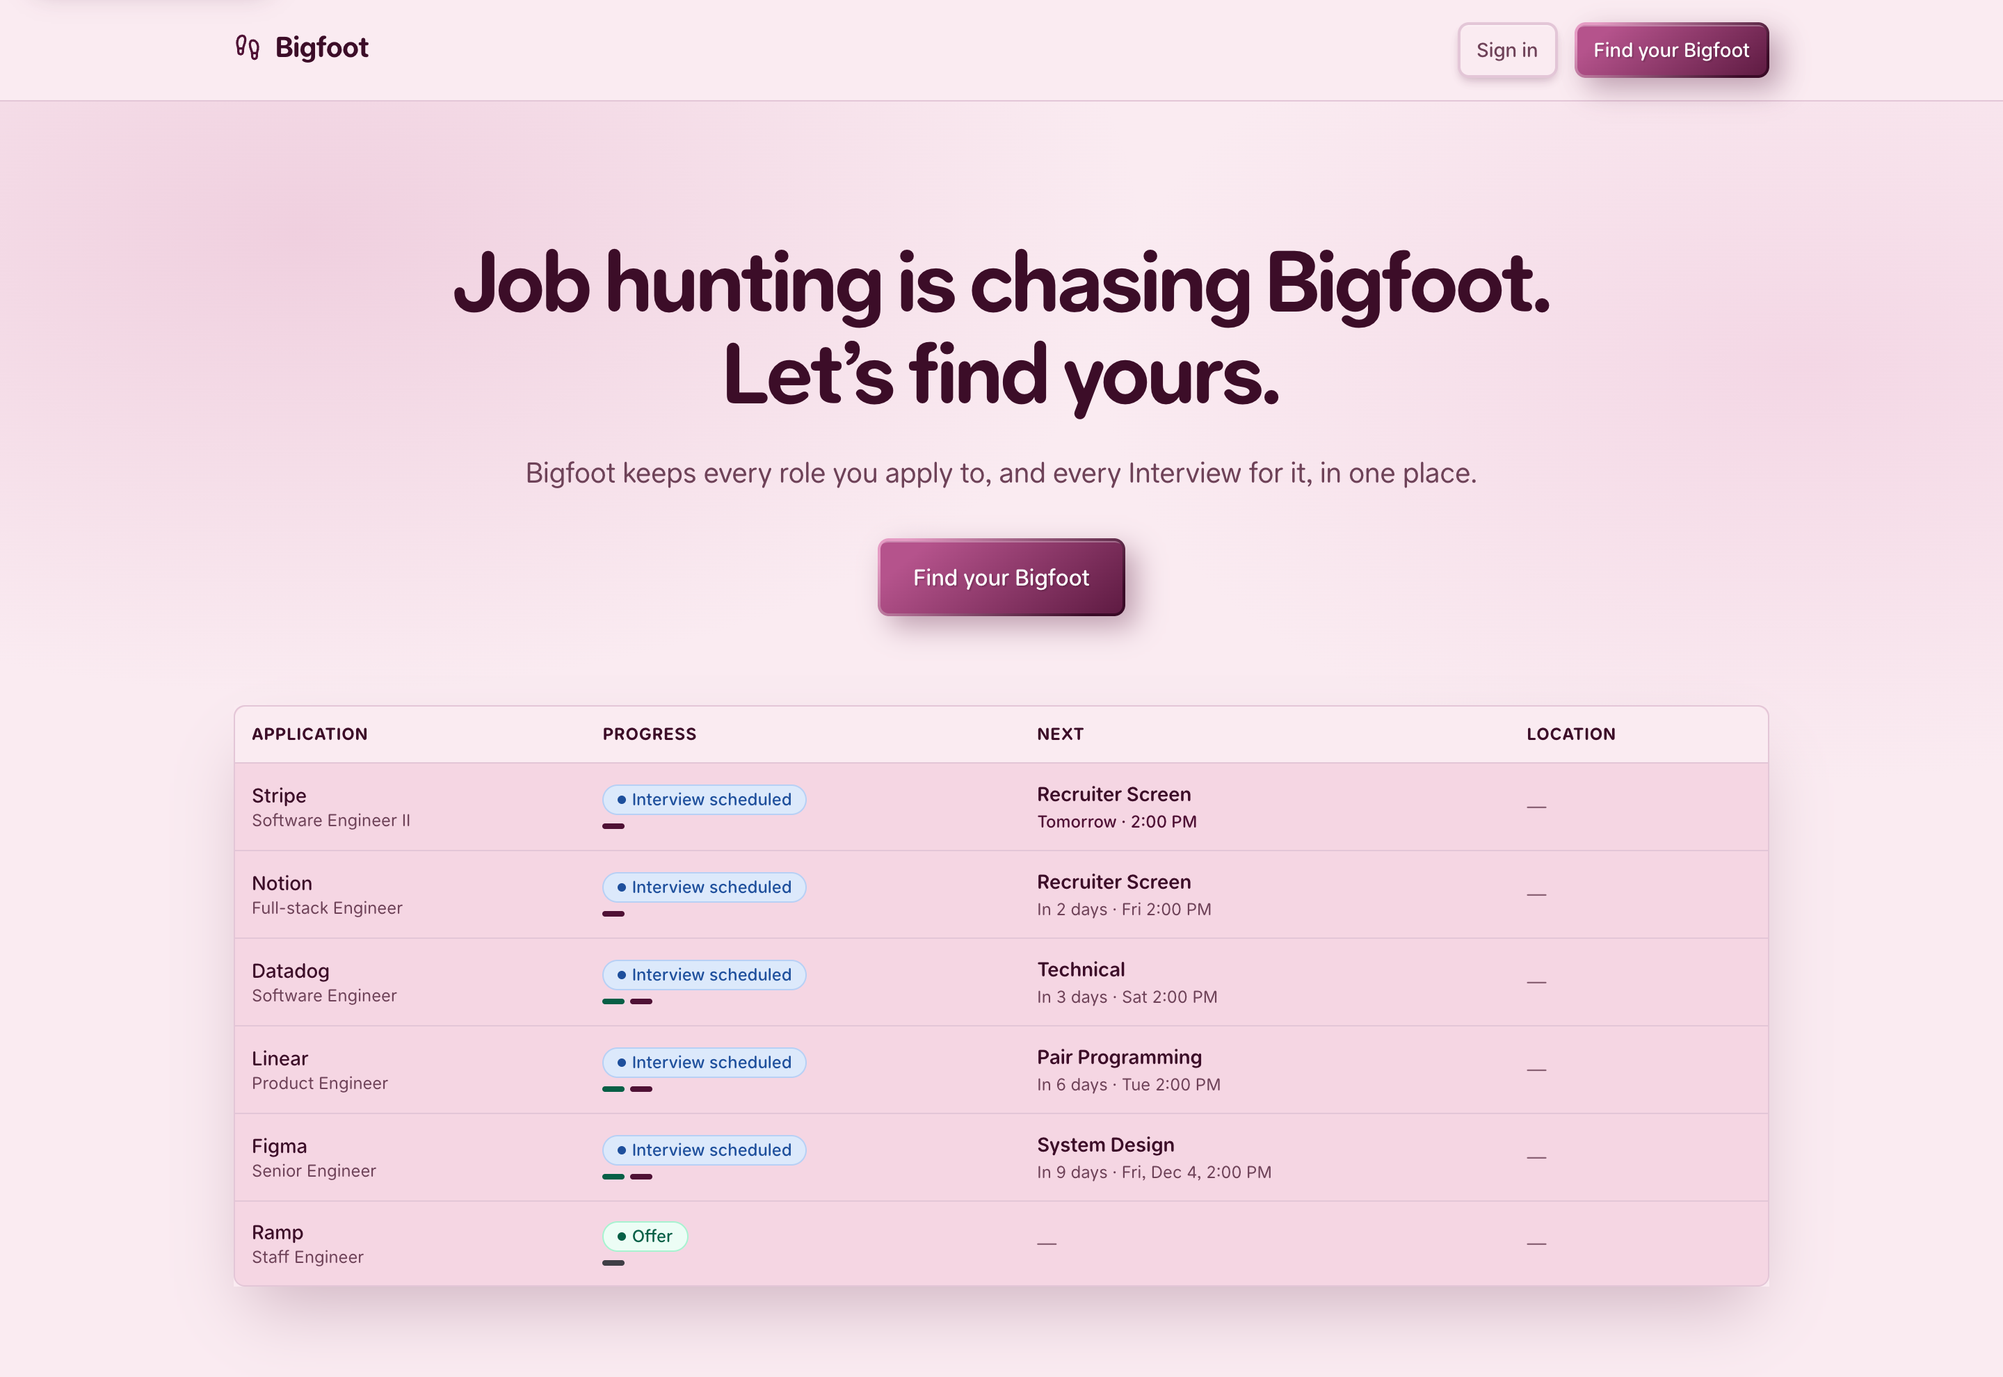
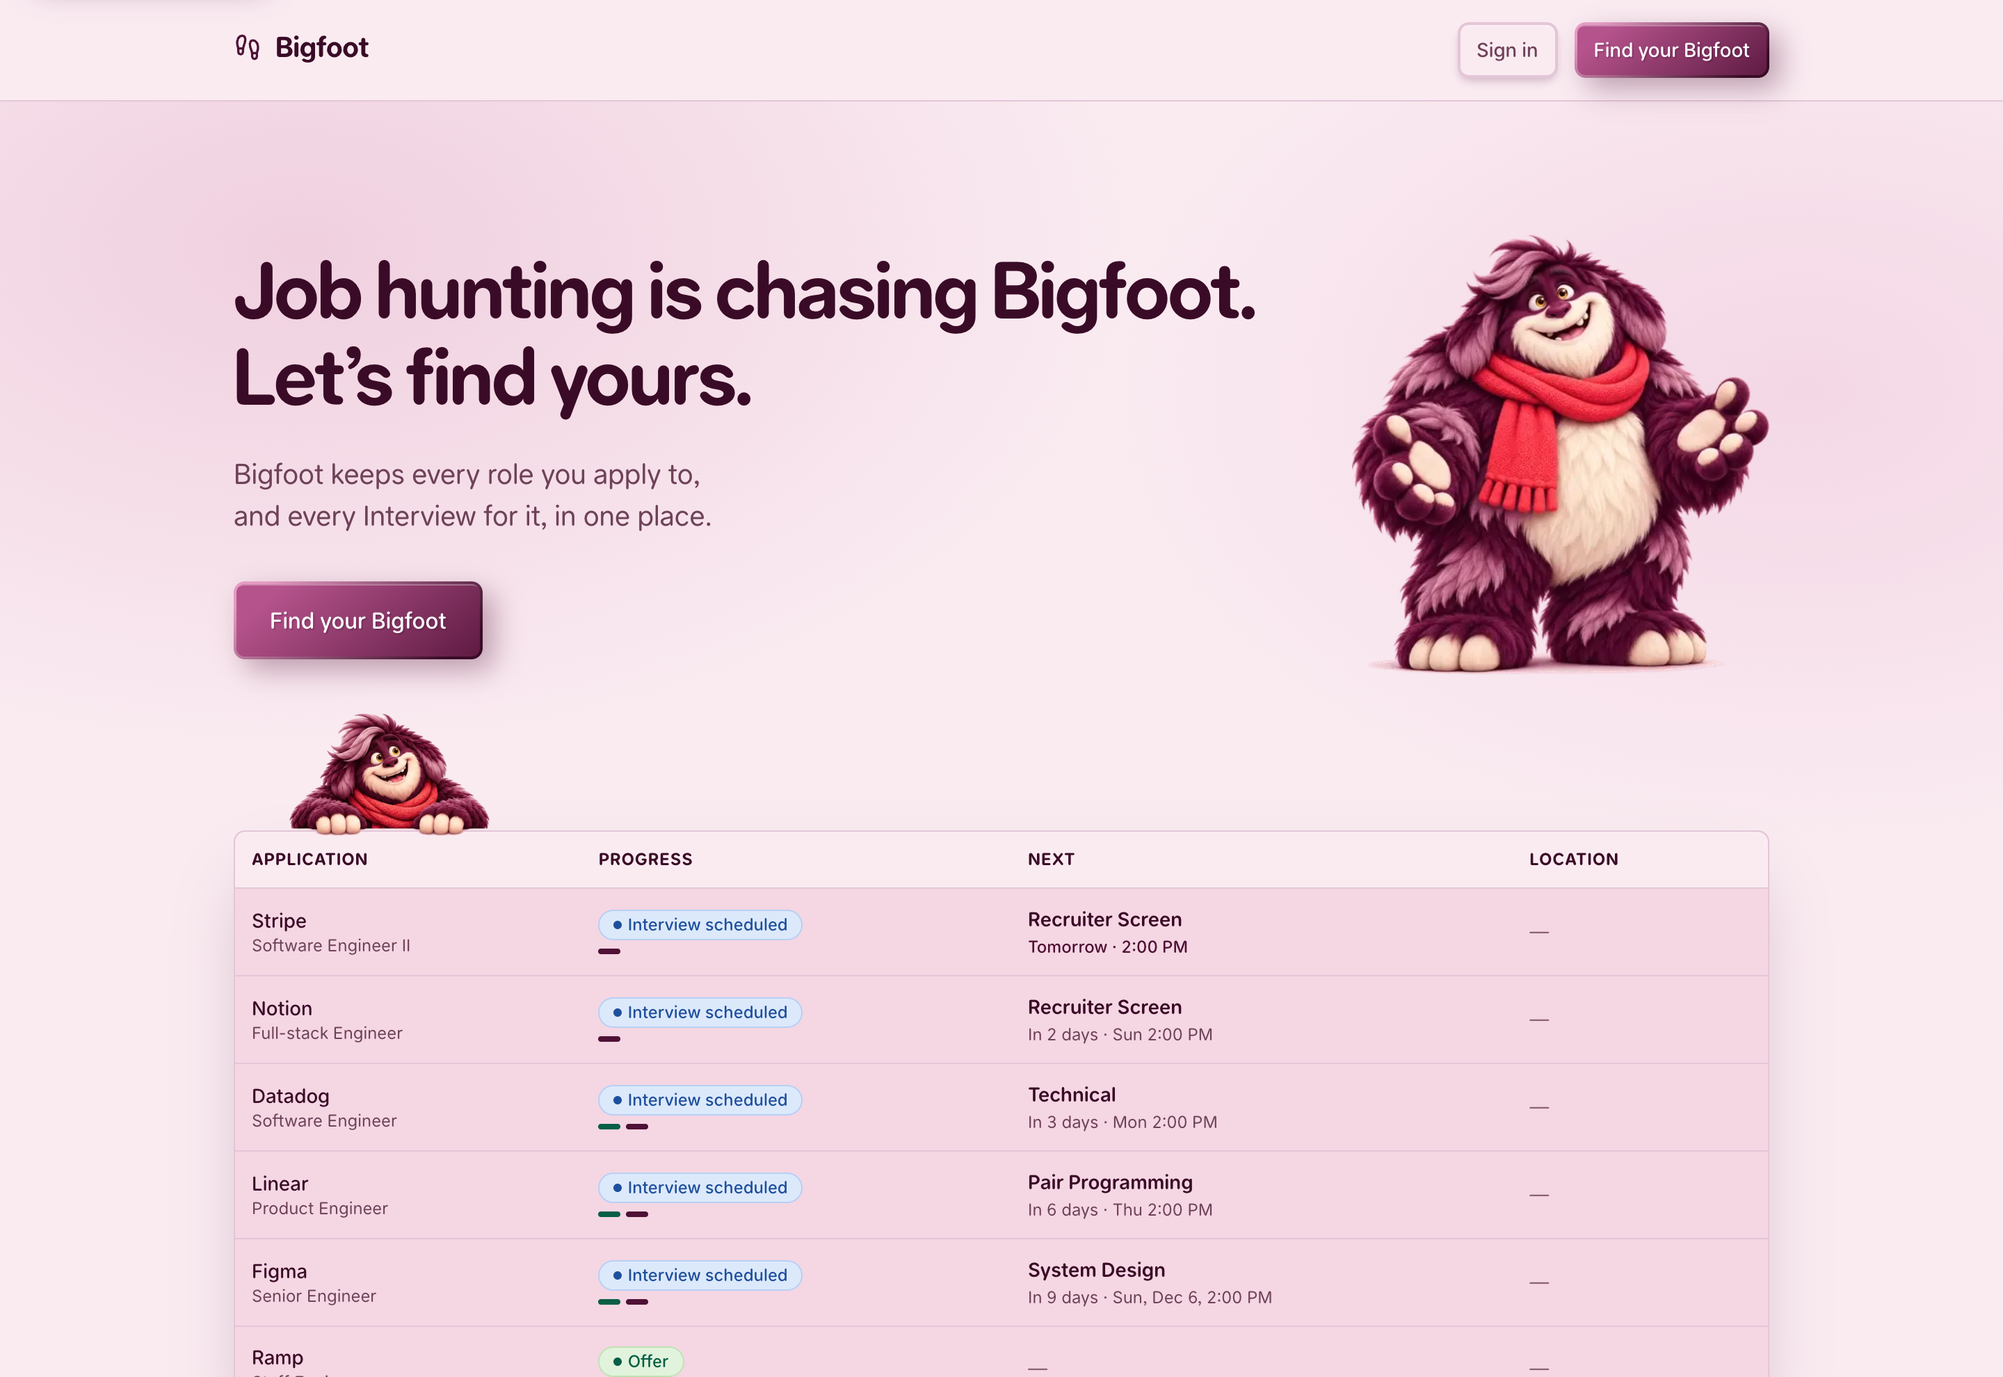
Revamp the home page with Bigfoot, on phones as well as wide screens (BIG-231)
The open-arms Bigfoot stands above the hero heading on a phone and beside it from lg. Bigfoot
peeks over the Applications preview, which fades out after a few rows on a phone. Each feature
card leads with a Bigfoot pose, a fourth card covers sharing a Journey, and a closing section
with a double-thumbs-up Bigfoot asks the job seeker to sign up. The page layout moves into
LandingPage, with Pages/Landing stories at desktop and phone width. README screenshots retaken.

diff --git a/src/features/landing/hero.tsx b/src/features/landing/hero.tsx
@@ -2,30 +2,45 @@ import Link from "next/link";
 import { buttonClasses } from "@/components/ui/button-classes";
 import { Container } from "@/components/ui/container";
 import { HeroPreview } from "@/features/landing/hero-preview";
+import { PeekOverBigfoot, WelcomeBigfoot } from "@/features/shell/illustrations";
 
+/**
+ * The home page's first screen. On a phone Bigfoot stands above the heading, so the first thing a
+ * job seeker sees on a shared link is him; from lg he stands beside it (BIG-231). Bigfoot peeks over
+ * the Applications preview at every width: at its right edge, and from lg at its left, so he isn't
+ * stacked under the one beside the heading.
+ */
 export function Hero() {
   return (
-    <section id="top" aria-labelledby="hero-title" className="hero-atmosphere py-24">
+    <section id="top" aria-labelledby="hero-title" className="hero-atmosphere py-16 md:py-24">
       <Container>
-        <div className="mx-auto max-w-[900px] text-center">
-          <h1
-            id="hero-title"
-            className="text-balance text-[32px] font-bold leading-[1.1] tracking-[-0.8px] text-heading md:text-[40px] lg:text-[60px]"
-          >
-            Job hunting is chasing Bigfoot. <span className="inline-block md:block">Let’s find yours.</span>
-          </h1>
-          <p className="mx-auto mt-6 max-w-[70ch] text-balance text-lg leading-[1.5] text-body lg:text-xl">
-            Bigfoot keeps every role you apply to, and every Interview for it, in one place.
-          </p>
-          <div className="mt-8 flex flex-col items-stretch justify-center gap-4 sm:flex-row sm:items-center">
-            <Link href="/sign-up" className={buttonClasses("brand", "xl")}>
-              Find your Bigfoot
-            </Link>
+        <div className="grid items-center gap-6 lg:grid-cols-[minmax(0,1fr)_300px] lg:gap-12">
+          <WelcomeBigfoot className="mx-auto h-auto w-[176px] sm:w-[220px] lg:order-last lg:w-[300px]" />
+          <div className="text-center lg:text-left">
+            <h1
+              id="hero-title"
+              className="text-balance text-[32px] font-bold leading-[1.1] tracking-[-0.8px] text-heading md:text-[44px] lg:text-[56px]"
+            >
+              Job hunting is chasing Bigfoot. <span className="inline-block md:block">Let’s find yours.</span>
+            </h1>
+            <p className="mx-auto mt-6 max-w-[56ch] text-balance text-lg leading-[1.5] text-body lg:mx-0 lg:text-xl">
+              Bigfoot keeps every role you apply to, and every Interview for it, in one place.
+            </p>
+            <div className="mt-8 flex flex-col items-stretch gap-4 sm:flex-row sm:items-center sm:justify-center lg:justify-start">
+              <Link href="/sign-up" className={buttonClasses("brand", "xl")}>
+                Find your Bigfoot
+              </Link>
+            </div>
           </div>
         </div>
 
-        <div className="mt-16">
-          <HeroPreview />
+        <div className="relative mt-24 sm:mt-28">
+          <PeekOverBigfoot className="pointer-events-none absolute bottom-[calc(100%-4px)] right-4 z-10 h-auto w-28 sm:right-10 sm:w-36 lg:left-10 lg:right-auto" />
+          {/* On a phone the preview stops after a few rows and fades out, so it doesn't take a whole
+              screen of scrolling to reach the features. */}
+          <div className="max-md:max-h-[480px] max-md:overflow-hidden max-md:[mask-image:linear-gradient(to_bottom,black_70%,transparent)]">
+            <HeroPreview />
+          </div>
         </div>
       </Container>
     </section>

diff --git a/src/features/landing/features.tsx b/src/features/landing/features.tsx
@@ -1,46 +1,54 @@
-import type { LucideIcon } from "lucide-react";
-import { CalendarDays, ListChecks, ListTodo } from "lucide-react";
+import type { ComponentType } from "react";
 import { Container } from "@/components/ui/container";
 import { SectionHeader } from "@/components/ui/section-header";
+import {
+  CalendarSurprisedBigfoot,
+  ClipboardWritingBigfoot,
+  FamilyBigfoot,
+  FolderHugBigfoot,
+} from "@/features/shell/illustrations";
 
-const features: { icon: LucideIcon; title: string; body: string }[] = [
+/** Each feature leads with Bigfoot doing it (BIG-231). */
+const features: { Art: ComponentType<{ className?: string }>; title: string; body: string }[] = [
   {
-    icon: ListTodo,
+    Art: FolderHugBigfoot,
     title: "Applications",
     body: "See every Application in one table, ordered by what it’s waiting on: a reply, an Interview or your answer to an Offer.",
   },
   {
-    icon: ListChecks,
+    Art: ClipboardWritingBigfoot,
     title: "Interviews",
     body: "Log each Interview with its own title, its category and its date. Each Application shows its next one and how many are completed.",
   },
   {
-    icon: CalendarDays,
+    Art: CalendarSurprisedBigfoot,
     title: "Interview calendar",
     body: "A calendar of your Interviews, with the next one at the top of your dashboard.",
+  },
+  {
+    Art: FamilyBigfoot,
+    title: "Share your Journey",
+    body: "Give family and friends a private Share link with its own Passcode. They follow your search without signing in, and never see your notes.",
   },
 ];
 
 export function Features() {
   return (
-    <section id="features" aria-labelledby="features-title" className="py-24">
+    <section id="features" aria-labelledby="features-title" className="py-16 md:py-24">
       <Container>
         <SectionHeader
           id="features-title"
           title="Your search in one place"
           lead="Add an Application, log its Interviews and see what’s next."
         />
-        <ul className="m-0 grid list-none grid-cols-1 gap-6 p-0 lg:grid-cols-3">
-          {features.map(({ icon: Icon, title, body }) => (
-            <li key={title} className="card p-8">
-              {/* Icon shape LG: 48px container, 24px icon, 24px radius */}
-              <span className="icon-shape mb-6 size-12 rounded-card">
-                <Icon className="size-6" aria-hidden />
-              </span>
-              <h3 className="m-0 mb-2 text-base font-medium leading-[1.25] text-heading lg:text-xl">
-                {title}
-              </h3>
-              <p className="m-0 text-base leading-[1.7] text-body">{body}</p>
+        <ul className="m-0 grid list-none grid-cols-1 gap-6 p-0 md:grid-cols-2">
+          {features.map(({ Art, title, body }) => (
+            <li key={title} className="card flex flex-col gap-6 p-6 sm:flex-row sm:items-center sm:p-8">
+              <Art className="mx-auto h-32 w-auto shrink-0 sm:mx-0 lg:h-36" />
+              <div>
+                <h3 className="m-0 mb-2 text-base font-medium leading-[1.25] text-heading lg:text-xl">{title}</h3>
+                <p className="m-0 text-base leading-[1.7] text-body">{body}</p>
+              </div>
             </li>
           ))}
         </ul>

diff --git a/src/features/landing/landing-page.stories.tsx b/src/features/landing/landing-page.stories.tsx
@@ -1,0 +1,65 @@
+import type { Meta, StoryObj } from "@storybook/nextjs-vite";
+import { expect, within } from "storybook/test";
+import { DESKTOP, MOBILE, PAGE } from "@/test/pages";
+import { LandingPage } from "./landing-page";
+
+// The home page, signed out, as / renders it (BIG-231), at a laptop's width and a phone's: Bigfoot in
+// the hero, peeking over the Applications preview, on each feature card and cheering in the closing
+// call. Every Bigfoot shows on a phone too. "Today" is fixed (src/test/pages.ts).
+
+const meta = {
+  title: "Pages/Landing",
+  component: LandingPage,
+  ...PAGE,
+} satisfies Meta<typeof LandingPage>;
+
+export default meta;
+type Story = StoryObj<typeof meta>;
+
+const SPRITES = [
+  "bigfoot-welcome",
+  "bigfoot-peek-over",
+  "bigfoot-folder-hug",
+  "bigfoot-clipboard-writing",
+  "bigfoot-calendar-surprised",
+  "bigfoot-family",
+  "bigfoot-double-thumbs-up",
+];
+
+const landing: Story = {
+  play: async ({ canvas, canvasElement }) => {
+    await expect(canvas.getByRole("heading", { level: 1, name: /Job hunting is chasing Bigfoot/ })).toBeVisible();
+    const features = canvas.getByRole("region", { name: "Your search in one place" });
+    await expect(within(features).getAllByRole("heading", { level: 3 }).map((h) => h.textContent)).toEqual([
+      "Applications",
+      "Interviews",
+      "Interview calendar",
+      "Share your Journey",
+    ]);
+    const call = canvas.getByRole("region", { name: "Ready to find yours?" });
+    await expect(within(call).getByRole("link", { name: "Find your Bigfoot" })).toHaveAttribute("href", "/sign-up");
+    const art = SPRITES.map((sprite) => canvasElement.querySelector(`img[src*="${sprite}"]`));
+    await Promise.all(art.map((image) => expect(image).toHaveAttribute("alt", "")));
+    await Promise.all(art.map((image) => expect(image).toBeVisible()));
+  },
+};
+
+export const Desktop: Story = { ...landing, ...DESKTOP };
+
+/** On a phone: Bigfoot above the heading, the preview cut short, full-width buttons, nothing scrolls sideways. */
+export const Mobile: Story = {
+  ...MOBILE,
+  play: async (context) => {
+    await landing.play?.(context);
+    const { canvas, canvasElement } = context;
+    const doc = canvasElement.ownerDocument.documentElement;
+    await expect(doc.scrollWidth).toBeLessThanOrEqual(doc.clientWidth);
+    const hero = canvas.getByRole("region", { name: /Job hunting is chasing Bigfoot/ });
+    const button = within(hero).getByRole("link", { name: "Find your Bigfoot" }).getBoundingClientRect();
+    await expect(button.height).toBeGreaterThanOrEqual(44);
+    await expect(button.width).toBeGreaterThan(doc.clientWidth - 64);
+    const art = canvasElement.querySelector('img[src*="bigfoot-welcome"]')!.getBoundingClientRect();
+    const heading = canvas.getByRole("heading", { level: 1 }).getBoundingClientRect();
+    await expect(art.bottom).toBeLessThanOrEqual(heading.top);
+  },
+};

diff --git a/src/features/shell/illustrations.tsx b/src/features/shell/illustrations.tsx
@@ -1,7 +1,7 @@
 import Image from "next/image";
 
 /**
- * Bigfoot spot illustrations, in maroon fur (BIG-173, BIG-174, BIG-225). Decorative: an empty alt keeps
+ * Bigfoot spot illustrations, in maroon fur (BIG-173, BIG-174, BIG-225, BIG-231). Decorative: an empty alt keeps
  * them out of the accessibility tree, so the text beside each one has to say everything. Transparent
  * WebP, so they sit on a card in light and dark mode alike. Small (under 85 KB, most under 45 KB) and
  * near the top of the page, so they load eagerly rather than pop in. Each sprite's comment says where
@@ -78,4 +78,29 @@ export function PeekOverBigfoot({ className }: Props) {
 /** Bigfoot leaning out from behind a card's right edge: the Passcode page (BIG-229). */
 export function PeekRightBigfoot({ className }: Props) {
   return <Image src="/illustrations/bigfoot-peek-right.webp" alt="" loading="eager" width={339} height={480} className={className} />;
+}
+
+/** Bigfoot with both arms open in welcome: the home page hero, beside the heading (BIG-231). */
+export function WelcomeBigfoot({ className }: Props) {
+  return <Image src="/illustrations/bigfoot-welcome.webp" alt="" loading="eager" width={456} height={480} className={className} />;
+}
+
+/** Bigfoot hugging a folder: the home page's Applications feature (BIG-231). */
+export function FolderHugBigfoot({ className }: Props) {
+  return <Image src="/illustrations/bigfoot-folder-hug.webp" alt="" loading="eager" width={303} height={345} className={className} />;
+}
+
+/** Bigfoot writing on a clipboard: the home page's Interviews feature (BIG-231). */
+export function ClipboardWritingBigfoot({ className }: Props) {
+  return <Image src="/illustrations/bigfoot-clipboard-writing.webp" alt="" loading="eager" width={290} height={346} className={className} />;
+}
+
+/** Bigfoot surprised by a desk calendar: the home page's Interview calendar feature (BIG-231). */
+export function CalendarSurprisedBigfoot({ className }: Props) {
+  return <Image src="/illustrations/bigfoot-calendar-surprised.webp" alt="" loading="eager" width={356} height={333} className={className} />;
+}
+
+/** Bigfoot with two thumbs up: the home page's closing call to sign up (BIG-231). */
+export function DoubleThumbsUpBigfoot({ className }: Props) {
+  return <Image src="/illustrations/bigfoot-double-thumbs-up.webp" alt="" loading="eager" width={343} height={480} className={className} />;
 }

diff --git a/src/features/landing/sign-up-call.tsx b/src/features/landing/sign-up-call.tsx
@@ -1,0 +1,33 @@
+import Link from "next/link";
+import { buttonClasses } from "@/components/ui/button-classes";
+import { Container } from "@/components/ui/container";
+import { DoubleThumbsUpBigfoot } from "@/features/shell/illustrations";
+
+/** The home page's last word before the footer: Bigfoot cheers the job seeker on to sign up (BIG-231). */
+export function SignUpCall() {
+  return (
+    <section aria-labelledby="sign-up-call-title" className="py-16 md:py-24">
+      <Container>
+        <div className="card hero-atmosphere flex flex-col items-center gap-6 px-6 py-10 text-center sm:px-10 md:flex-row md:gap-10 md:py-12 md:text-left">
+          <DoubleThumbsUpBigfoot className="h-auto w-[140px] shrink-0 md:w-[168px]" />
+          <div className="flex w-full flex-col gap-6 md:flex-row md:items-center md:justify-between">
+            <div>
+              <h2
+                id="sign-up-call-title"
+                className="m-0 text-[28px] font-bold leading-[1.15] text-heading md:text-[36px]"
+              >
+                Ready to find yours?
+              </h2>
+              <p className="m-0 mt-4 max-w-[48ch] text-lg leading-[1.6] text-body">
+                Sign in with Google, add your first Application, and Bigfoot keeps track from there.
+              </p>
+            </div>
+            <Link href="/sign-up" className={`${buttonClasses("brand", "xl")} shrink-0`}>
+              Find your Bigfoot
+            </Link>
+          </div>
+        </div>
+      </Container>
+    </section>
+  );
+}

diff --git a/src/features/landing/landing.test.tsx b/src/features/landing/landing.test.tsx
@@ -5,6 +5,7 @@ import { Features } from "./features";
 import { Footer } from "./footer";
 import { Hero } from "./hero";
 import { Navbar } from "./navbar";
+import { SignUpCall } from "./sign-up-call";
 import { AppFooter } from "@/features/shell/app-footer";
 
 // The sign-in buttons post to Server Actions, which need Auth.js and a request.
@@ -26,10 +27,21 @@ describe("landing sections", () => {
     expect(screen.queryByRole("link", { name: "Sign in" })).not.toBeInTheDocument();
   });
 
-  it("Features is a section named by its h2, with an h3 per feature", () => {
+  it("Features is a section named by its h2, with an h3 per feature, sharing a Journey last", () => {
     render(<Features />);
     const section = sectionNamedBy(2);
-    expect(within(section).getAllByRole("heading", { level: 3 })).toHaveLength(3);
+    expect(within(section).getAllByRole("heading", { level: 3 }).map((h) => h.textContent)).toEqual([
+      "Applications",
+      "Interviews",
+      "Interview calendar",
+      "Share your Journey",
+    ]);
+  });
+
+  it("SignUpCall is a section named by its h2, ending in the sign-up button", () => {
+    render(<SignUpCall />);
+    const section = sectionNamedBy(2);
+    expect(within(section).getByRole("link", { name: "Find your Bigfoot" })).toHaveAttribute("href", "/sign-up");
   });
 
   it("Navbar's mobile menu shows the sign-in note with its buttons", async () => {

diff --git a/src/app/page.tsx b/src/app/page.tsx
@@ -1,22 +1,15 @@
 import { Suspense } from "react";
 import { AccountDeletedNotice } from "@/features/landing/account-deleted-notice";
-import { Features } from "@/features/landing/features";
-import { Footer } from "@/features/landing/footer";
-import { Hero } from "@/features/landing/hero";
-import { Navbar } from "@/features/landing/navbar";
+import { LandingPage } from "@/features/landing/landing-page";
 
 export default function Home({ searchParams }: PageProps<"/">) {
   return (
-    <>
-      <Navbar />
-      <main id="main">
+    <LandingPage
+      notice={
         <Suspense>
           <AccountDeletedNotice searchParams={searchParams} />
         </Suspense>
-        <Hero />
-        <Features />
-      </main>
-      <Footer />
-    </>
+      }
+    />
   );
 }

diff --git a/src/features/landing/landing-page.tsx b/src/features/landing/landing-page.tsx
@@ -1,0 +1,22 @@
+import type { ReactNode } from "react";
+import { Features } from "@/features/landing/features";
+import { Footer } from "@/features/landing/footer";
+import { Hero } from "@/features/landing/hero";
+import { Navbar } from "@/features/landing/navbar";
+import { SignUpCall } from "@/features/landing/sign-up-call";
+
+/** The home page, signed out. `notice` goes above the hero: the route passes the account-deleted notice. */
+export function LandingPage({ notice }: { notice?: ReactNode }) {
+  return (
+    <>
+      <Navbar />
+      <main id="main">
+        {notice}
+        <Hero />
+        <Features />
+        <SignUpCall />
+      </main>
+      <Footer />
+    </>
+  );
+}
